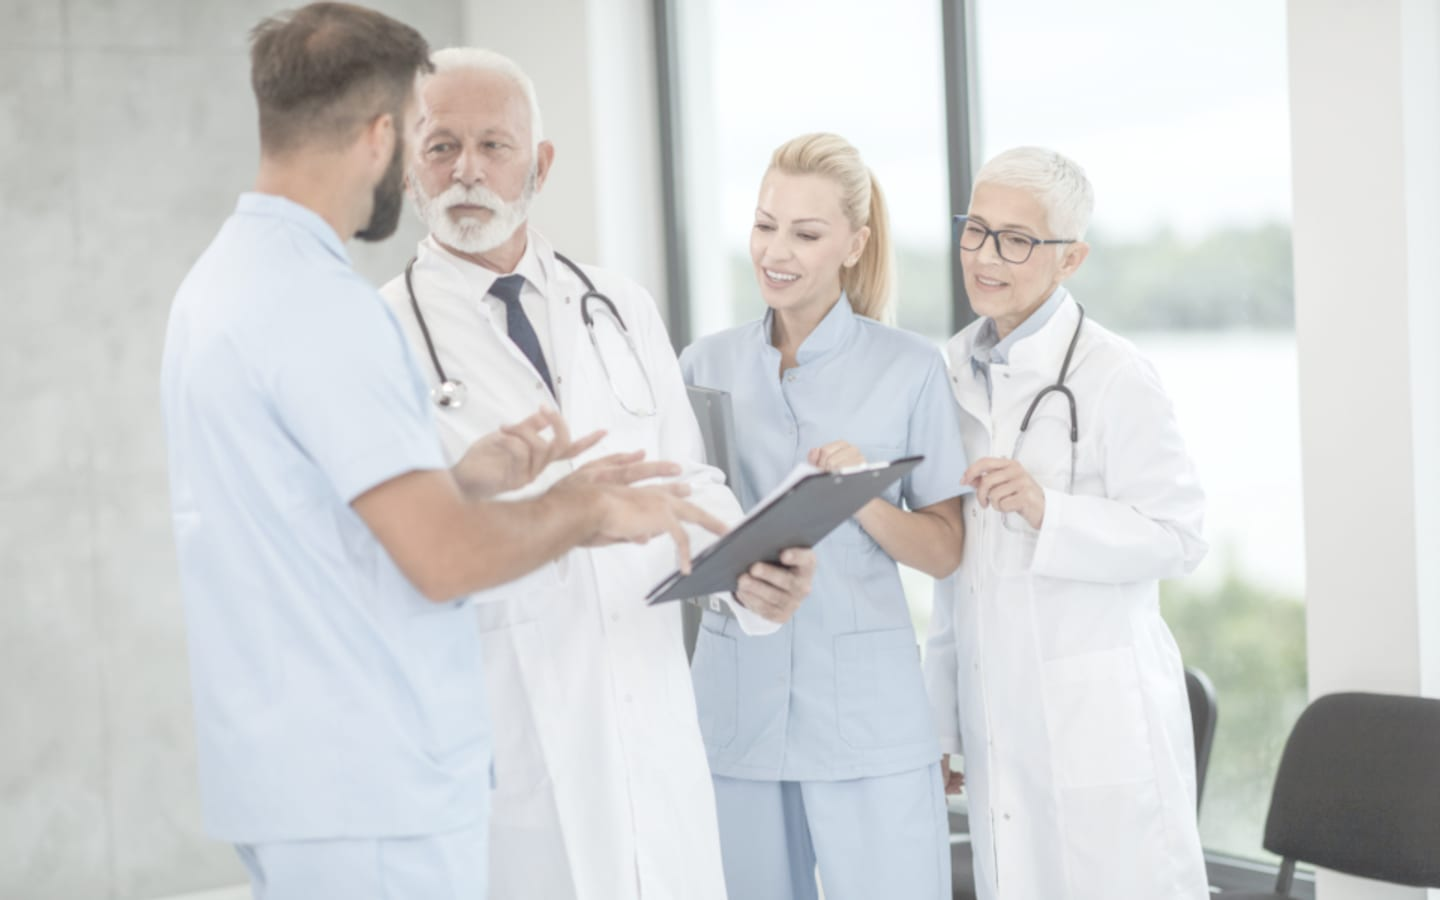
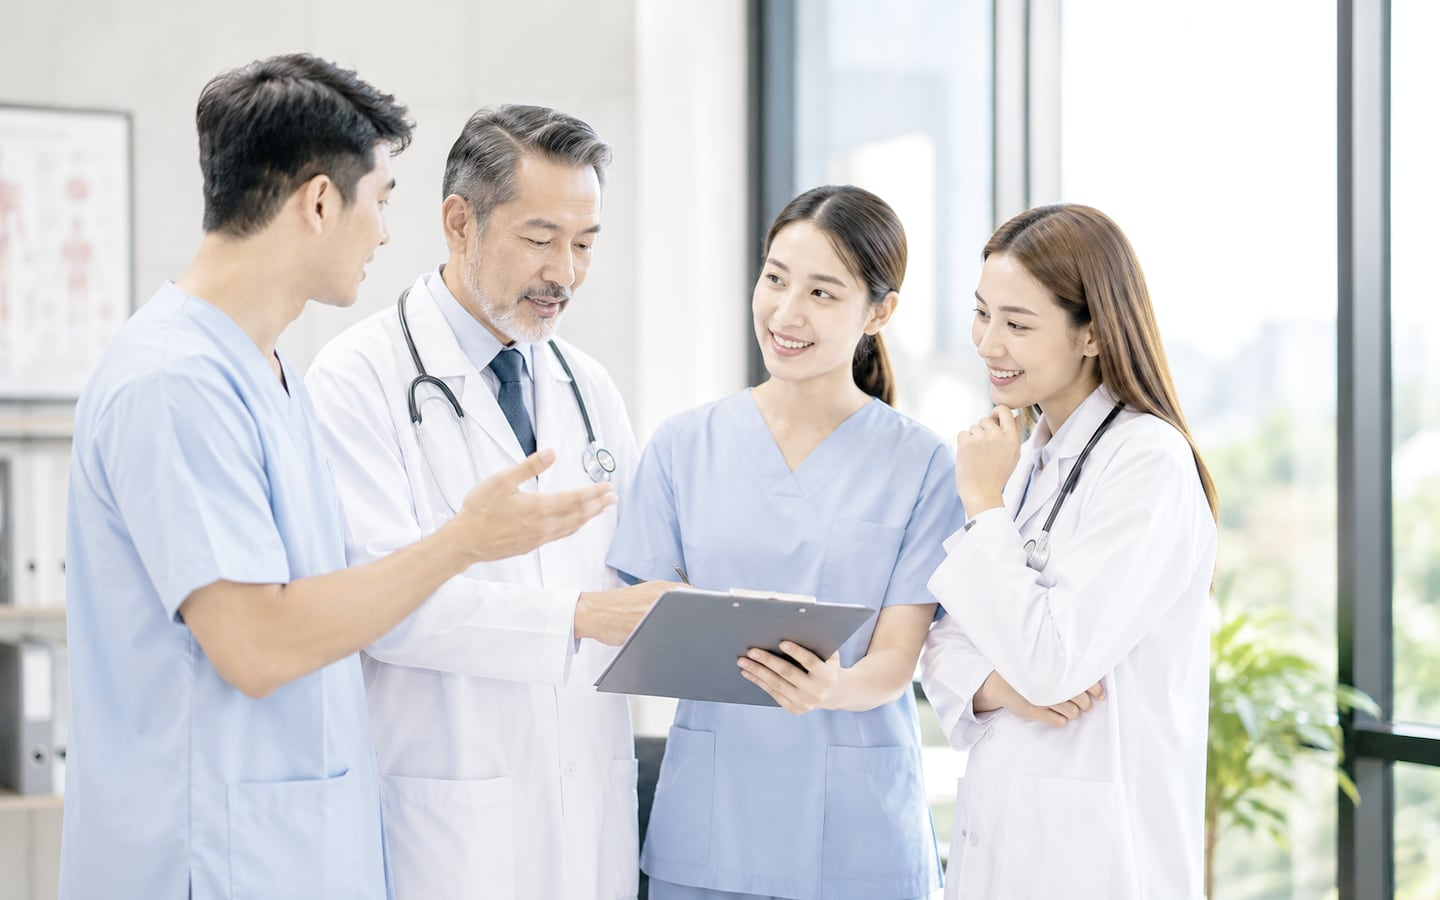
fix(about): the "lý do ra đời" photograph
Replaces the CC0 placeholder in the About band with the supplied image, cropped
to the 16:10 the slot declares and put through the same warm grade as the rest
of the set. The source is 1536×1024, so unlike the five specialty images this
one downscales into 1440×900 rather than stretching — it is sharp at every size
the band asks for.

It also fixes something the placeholder got wrong beyond being a placeholder:
the old photograph showed Western clinicians on a page whose whole argument is
about being treated in Vietnam. The new one shows the people a reader is
actually being introduced to.

`alt` describes what shipped — four clinicians reading a clipboard by a window —
rather than the brief the slot used to carry.

**Worth knowing for the deploy.** The first build after replacing the file still
rendered the old image: `.next/cache/images` keys optimised variants by source
URL, and the filename did not change, so nothing invalidated. Cleared and
rebuilt. The same applies in production — `minimumCacheTTL` is 4h, so a
same-named replacement can serve the previous image to a viewer for that long
after deploy. Hard-refresh if it looks unchanged.

Verified: new image and new alt served in both locales, 16 pages crawled with 0
broken links, one h1 per page, no image without alt, 0 console errors, 0 change
to contrast results.

diff --git a/content/vi.ts b/content/vi.ts
@@ -87,12 +87,12 @@ export const vi: SiteContent = {
       { id: "quote", icon: "receipt", label: "Báo giá trọn gói" },
     ],
     media: {
-      alt: "Nhóm bác sĩ cùng xem hồ sơ bên cửa sổ phòng hội chẩn",
+      alt: "Bốn nhân viên y tế mặc áo blouse và đồ scrubs cùng xem một bản ghi trên clipboard, bên cửa sổ phòng làm việc",
       src: "/images/photos/about.jpg",
       width: 1440,
       height: 900,
       blurDataURL:
[2 lines of base64/hex data omitted]
       glyph: "notebook-pen",
       tone: "linen",
       seed: "handle-about-consult",

diff --git a/content/en.ts b/content/en.ts
@@ -91,12 +91,12 @@ export const en: SiteContent = {
       { id: "quote", icon: "receipt", label: "One itemised quote" },
     ],
     media: {
-      alt: "Clinicians reviewing a chart together by a consulting-room window",
+      alt: "Four clinicians in white coats and scrubs reading notes on a clipboard together by an office window",
       src: "/images/photos/about.jpg",
       width: 1440,
       height: 900,
       blurDataURL:
[2 lines of base64/hex data omitted]
       glyph: "notebook-pen",
       tone: "linen",
       seed: "handle-about-consult",
